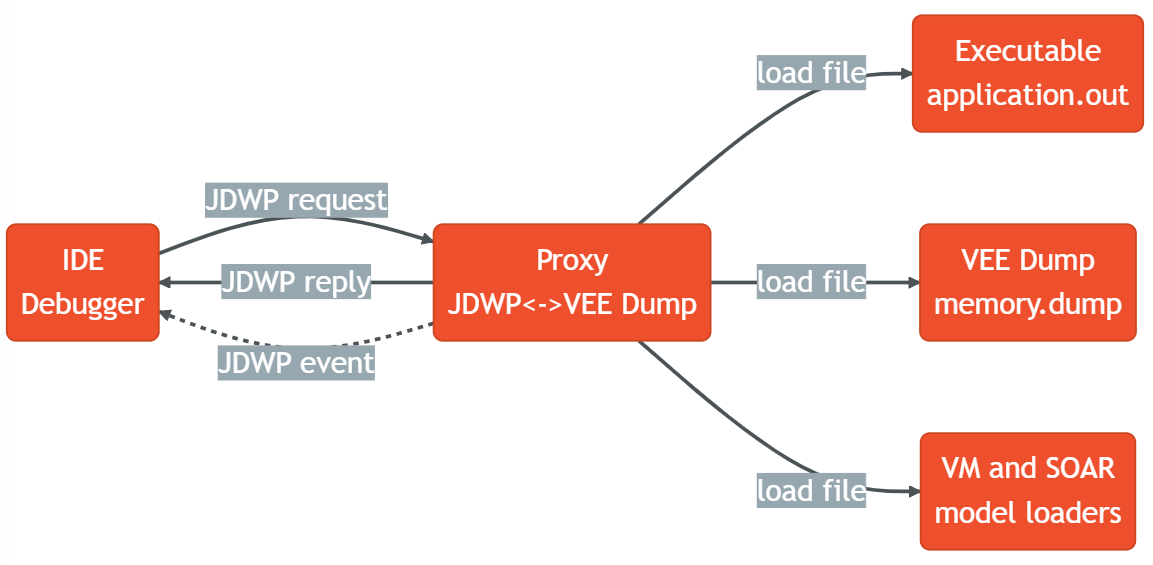
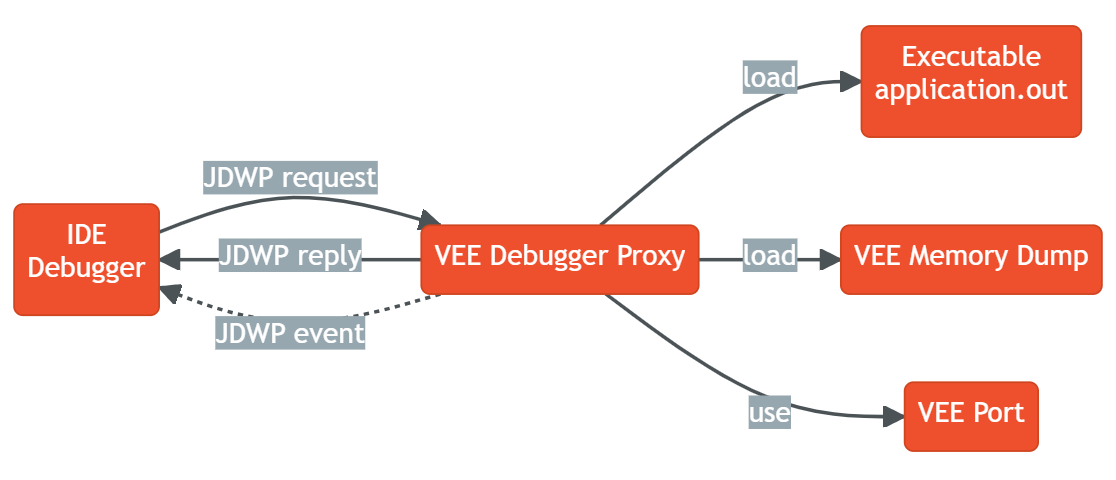
Debugger proxy usage for MCU target

Changed region(s): [[0.0, 0.0, 1.0, 1.0]]

diff --git a/ApplicationDeveloperGuide/debuggerProxy.rst b/ApplicationDeveloperGuide/debuggerProxy.rst
@@ -9,7 +9,7 @@ Principle
 The VEE debugger proxy is an implementation of the Java Debug Wire protocol (JDWP) for debugging Applications executed by MICROEJ VEE.
 It consists of a TCP server implementing the JDWP protocol and acting as a proxy between the IDE (debugger) and the Executable (debuggee) running on the device.
 
-The debugger proxy allows a postmortem debug from a core dump of a running Executable binary.
+The debugger proxy allows a postmortem debug from a snapshot of the memory (core dump file for Linux/QNX targets and ihex file for MCU targets) of a running Executable binary.
 
 .. figure:: images/debugger_proxy1.png
    :alt: Debugger Proxy Principle
@@ -18,14 +18,25 @@ The debugger proxy allows a postmortem debug from a core dump of a running Execu
 
    Debugger Proxy Principle
 
+.. warning::
+    
+    The snapshot of the memory (core dump or ihex files) should only be generated when the Core Engine task is stopped on one of the Core Engine hooks (``LLMJVM_on_OutOfMemoryError_thrown``, ``LLMJVM_on_Runtime_gc_done`` etc.) or in a native function. 
+    Otherwise, the Core Engine memory dump is not guarranted to be consistent, which may cause the VEE Debugger to crash abruptly. 
 
 .. note::
-   This feature requires Architecture version ``8.0.0`` or higher and only works for Linux and QNX.
+    This feature requires Architecture version ``8.1.0`` or higher and only works for Mono-Sandbox Executable.
+    
+    Please contact :ref:`our support team <get_support>` to get the VEE Debugger Proxy tool ``microej-debugger-proxy.jar`` compatible with your Architecture version.
 
-
-
-Generate a Core Dump File on Linux using GDB
+Debugging Executable for Linux or QNX target
 ============================================
+
+In order to debug an Executable for Linux or QNX target, you need to dump the memory of the running Executable and then run the VEE Debugger Proxy.
+
+For Linux and QNX target, the memory dump must be a core dump file.
+
+Generate a Core Dump File using GDB
+-----------------------------------
 
 Open a shell terminal on the device and enter the following commands:
 
@@ -76,7 +87,7 @@ You can run the script directly in the GDB console.
    cont
    end
 
-Run the program:
+Starts executing the Mono-Sandbox Executable under GDB:
 
 .. code-block:: sh
 
@@ -86,40 +97,122 @@ Run the program:
 
 A core dump file will be generated once the Executable reach one of the breaking conditions described previously.
 
-.. warning::
-    
-    The core dump should only be called when the Core Engine task is stopped on one of the specified callbacks (`LLMJVM_on_OutOfMemoryError_thrown()`, `LLMJVM_on_Runtime_gc_done()` etc.) or in a native function. 
-    Otherwise, the Core Engine dump is not guarranted to be consistent, which may cause the VEE debugger to crash abruptly.
-
-Start the Proxy
-===============
-
-Please contact :ref:`our support team <get_support>` to get the VEE Debugger Proxy tool compatible with your Architecture version.
+Run the VEE Debugger Proxy
+--------------------------
 
 Open a shell terminal on your workstation and run the following command
 
 .. code-block:: sh
 
-    java -Dloader.path=<path to runtime jars> \
+    java -DveePortDir=<path to VEE Port directory> \
         -Ddebugger.port=<8000> \
         -Ddebugger.out.path=<path to the Executable file (``application.out``)> \
         -Ddebugger.out.coredump.path=<path to the core dump file> \
-        -Ddebugger.out.format=<elf> \
-        -Ddebugger.out.bigEndianness=<false> \
         -jar microej-debugger-proxy.jar
 
 
-* **debugger.port**: TCP server port, defaults to ``8000``
-* **debugger.out.path**: Path to the Executable file (``application.out``)
-* **debugger.out.coredump.path**: Path to the core dump file
-* **debugger.out.format**: The Executable file format (defaults to ``elf``)
-* **debugger.out.bigEndianness**: The Executable file endianness (default to ``false``: little endian)
-* **loader.path**: The path to the VEE Port libraries ``soarModelReader.jar`` and ``vmModelReader.jar`` needs to be provided here.
-  This option value must be a comma-separated classpath, such as ``[VEEPortDir]/tools/soarModelReader.jar,[VEEPortDir]/tools/vmModelReader.jar`` where ``[VEEPortDir]`` is your VEE Port directory.
-  Earlier entries take precedence, like a regular ``-classpath`` on the javac command line. 
-  Other runtime jars can be provided using this option.
+Open the SDK and run a :ref:`Remote Java Application Launch <debug_on_device>` to debug your code.
+
+Debugging Executable for MCU target
+===================================
+
+The VEE Debugger Proxy for MCU target requires a dump of the running Executable in Intel-hex format (ihex file).
+
+The VEE Debugger Proxy provides a tool to generate a script for IAR or GDB debugger which contains the commands to dump the required memory regions of the running Executable.
+
+.. _generate_vee_memory_dump_script:
+
+Generate VEE memory dump script for IAR or GDB debugger
+-------------------------------------------------------
+
+Open a shell terminal on your workstation and run the following command
+
+.. code-block:: sh
+
+    java -DveePortDir=<path to VEE Port directory> \
+        -Ddebugger.out.path=<path to the Executable file (``application.out``)> \
+        -cp microej-debugger-proxy.jar com.microej.jdwp.VeeDebuggerCli \
+        --debugger=IAR|GDB \
+        --output=<Output folder where the script file will be generated> \
+        -jar microej-debugger-proxy.jar
+
+
+A script file named ``vee-memory-dump.mac`` (for IAR) or ``vee-memory-dump.gdb`` (for GDB) is generated into the specified output folder.
+
+You can now dump the memory of the running Executable using the generated script.
+
+Dump the memory of the running Executable
+-----------------------------------------
+
+With IAR Debugger
+~~~~~~~~~~~~~~~~~
+
+In IAR Embedded Workbench:
+
+- Register the generated ``vee-memory-dump.mac`` file in the debugger project option
+
+.. figure:: images/iar-cspy1.png
+   :alt: IAR Embedded Workbench Debugger Project Option
+   :align: center
+
+   IAR Debugger Project Option
+
+- Add the macro ``dumpMemories()`` as an action expression to a code breakpoint:
+
+.. figure:: images/iar-cspy2.png
+   :alt: IAR Breakpoint editor
+   :align: center
+
+   IAR Breakpoint editor
+
+The ``dumpMemories()`` macro function is executed once the IAR Debugger hits the specified breakpoint and the ``*.ihex`` files are generated in the folder containing the ``vee-memory-dump.mac`` file.
+
+With GNU Debugger (GDB)
+~~~~~~~~~~~~~~~~~~~~~~~
+
+In your GDB console:
+
+- Create a breakpoint at a specific safe point (Core Engine hooks or native function)
+
+.. code-block:: sh
+
+    # E.g. Add breakpoint at LLMJVM_on_Runtime_gc_done hook
+    break LLMJVM_on_Runtime_gc_done
+    run
+
+- Run the ``vee-memory-dump.gdb`` script file once the running Executable stops at the Breakpoint.
+
+.. code-block:: sh
+
+    # E.g. Run the GDB memory dump script
+    source [/path/to]/vee-memory-dump.gdb
+
+The ``*.ihex`` files will be generated in the same folder containing the ``vee-memory-dump.gdb`` file.
+
+Start the VEE Debugger Proxy
+----------------------------
+
+Open a shell terminal on your workstation and run the following command
+
+.. code-block:: sh
+
+    java -DveePortDir=<path to VEE Port directory> \
+        -Ddebugger.port=<8000> \
+        -Ddebugger.out.path=<path to the Executable file (``application.out``)> \
+        -Ddebugger.out.ihex.path=<path to the ihex files> \
+        -jar microej-debugger-proxy.jar
 
 Open the SDK and run a :ref:`Remote Java Application Launch <debug_on_device>` to debug your code.
+
+VEE Debugger Proxy Options Summary
+==================================
+
+* **veePortDir**: The path to the VEE Port directory (must point to the `source` folder of the VEE Port.)
+* **debugger.port**: TCP server port, defaults to ``8000``.
+* **debugger.out.path**: Path to the Executable file (``application.out``)
+* **debugger.out.coredump.path**: Path to the core dump file (conflict with **debugger.out.ihex.path** option)
+* **debugger.out.ihex.path**: Path to the ihex memory files (conflict with **debugger.out.coredump.path** option)
+  This option value must be a comma-separated list of the generated ihex files, such as ``[/path/to]/java_heap.ihex,[/path/to]/java_stacks.ihex,[/path/to]/vm_instance.ihex``
 
 ..
    | Copyright 2022-2023, MicroEJ Corp. Content in this space is free 

diff --git a/VEEPortingGuide/architectureChangelog.rst b/VEEPortingGuide/architectureChangelog.rst
@@ -42,7 +42,9 @@ This Architecture version update introduces the following main features:
 
 - Updated :ref:`Feature installation <feature_memory_installation>` flow to support Code chunks. 
   A Feature can now be installed to ROM without the need of the Code size in RAM.
-
+- Support for debugging ASLR executables
+- Support for debugging MCU targets
+  
 If you plan to migrate a VEE Port from Architecture ``8.0.0`` to Architecture ``8.1.0``, consider the :ref:`architecture8_migration` chapter.
 
 Core Engine
@@ -51,6 +53,14 @@ Core Engine
 - Updated :ref:`Feature installation boot sequence <feature_persistency>`: all Feature handles are now retrieved prior to initializing them.
 - Removed Feature installation in RAM (legacy :ref:`In-Place Installation mode <feature_inplace_installation>`). See :ref:`architecture8_migration_llkernel`.
 - Updated check of :ref:`Kernel UID <kernel_uid>` at the beginning of `Kernel.install(java.io.InputStream)`_, before allocating Feature sections.
+
+Tools
+~~~~~
+
+- Updated SOAR and VM Model Readers
+  
+    -  Added support to retrieve the Core Engine memory regions (used by the VEE Debugger Proxy to generate a memory dump script (see :ref:`Generate VEE memory dump script <generate_vee_memory_dump_script>`))
+    -  Added an API to relink the SOAR Model objects, i.e. change their associated addresses (used by the VEE Debugger Proxy to support ASLR Executables) 
 
 .. _changelog-8.0.0:
 
